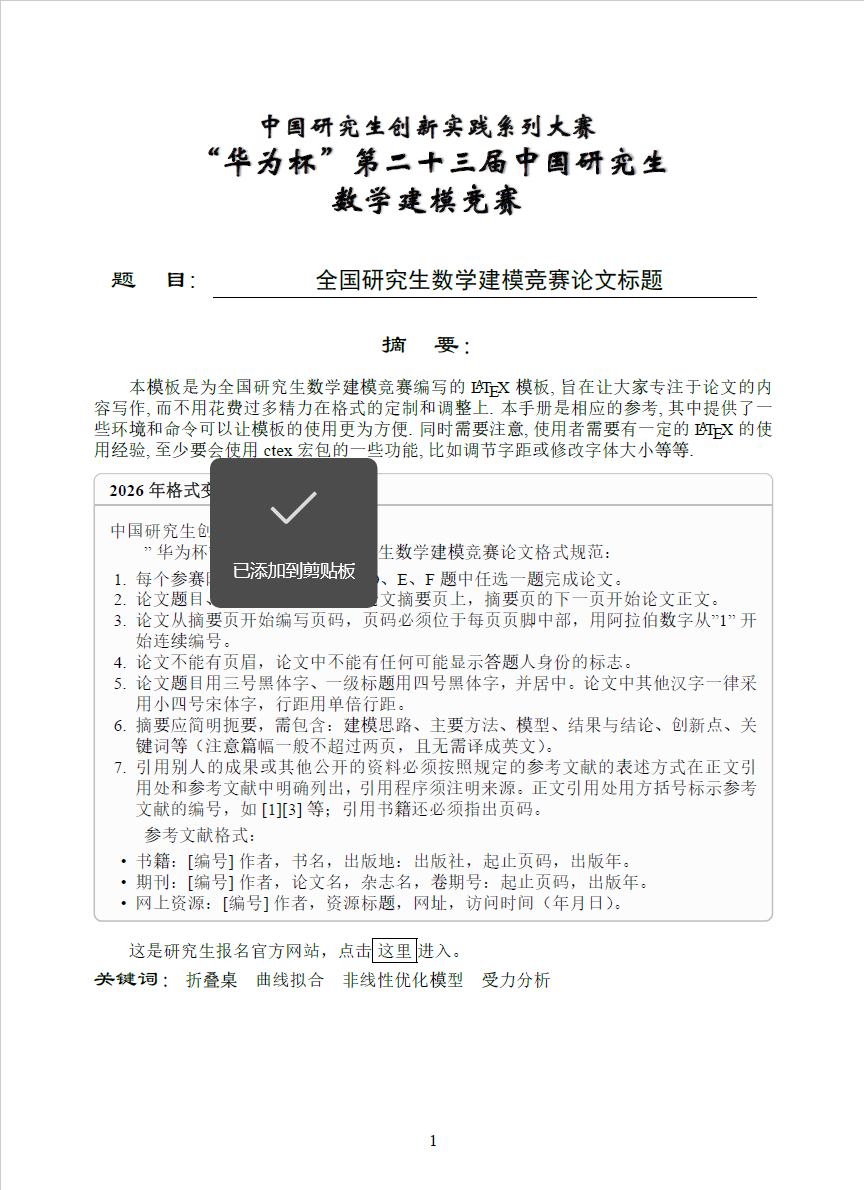
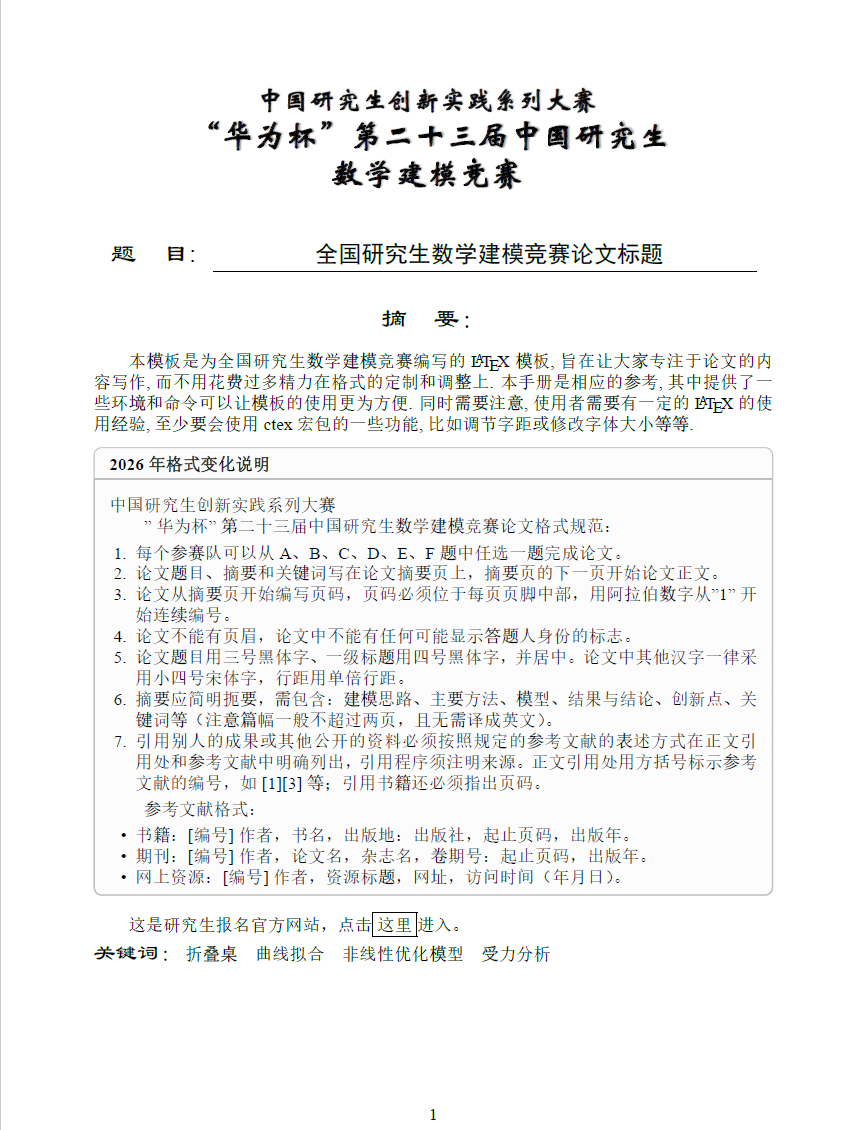
docs: 更新摘要预览并修正来源说明

diff --git a/README.md b/README.md
@@ -79,8 +79,7 @@ latexmk -xelatex -interaction=nonstopmode -halt-on-error example-color.tex
 本项目并非从零编写，主要来源及修改关系如下：
 
 1. LaTeX 类文件与参考文献样式基于既有 **GMCMthesis** 模板继续修改；`gmcmthesis.cls` 中保留了 `latexstudio.net`、`andy123t`、`OsbertWang/GMCMthesis` 等原作者、维护者及相关贡献说明，`gmcm.bst` 中保留其原始版权声明。
-2. 2026 年赛事名称、承办高校信息、封面与摘要页适配方式参考了 [Nopon-Knowledge/huawei-cup-modeling-latex](https://github.com/Nopon-Knowledge/huawei-cup-modeling-latex) 项目的公开说明与实现思路，并在此基础上结合本仓库的类文件、字体配置、代码环境和示例内容进行整理与调整。
-3. 赛事格式要求、固定版式和相关图形素材以中国研究生创新实践系列大赛管理平台发布的 2026 年官方文件为依据；本仓库中的 PDF、图像及版式素材仅用于复现竞赛论文模板和帮助参赛者排版。
+2. 赛事格式要求、固定版式和相关图形素材以中国研究生创新实践系列大赛管理平台发布的 2026 年官方文件为依据；本仓库中的 PDF、图像及版式素材仅用于复现竞赛论文模板和帮助参赛者排版。
 
 官方资料：
 
